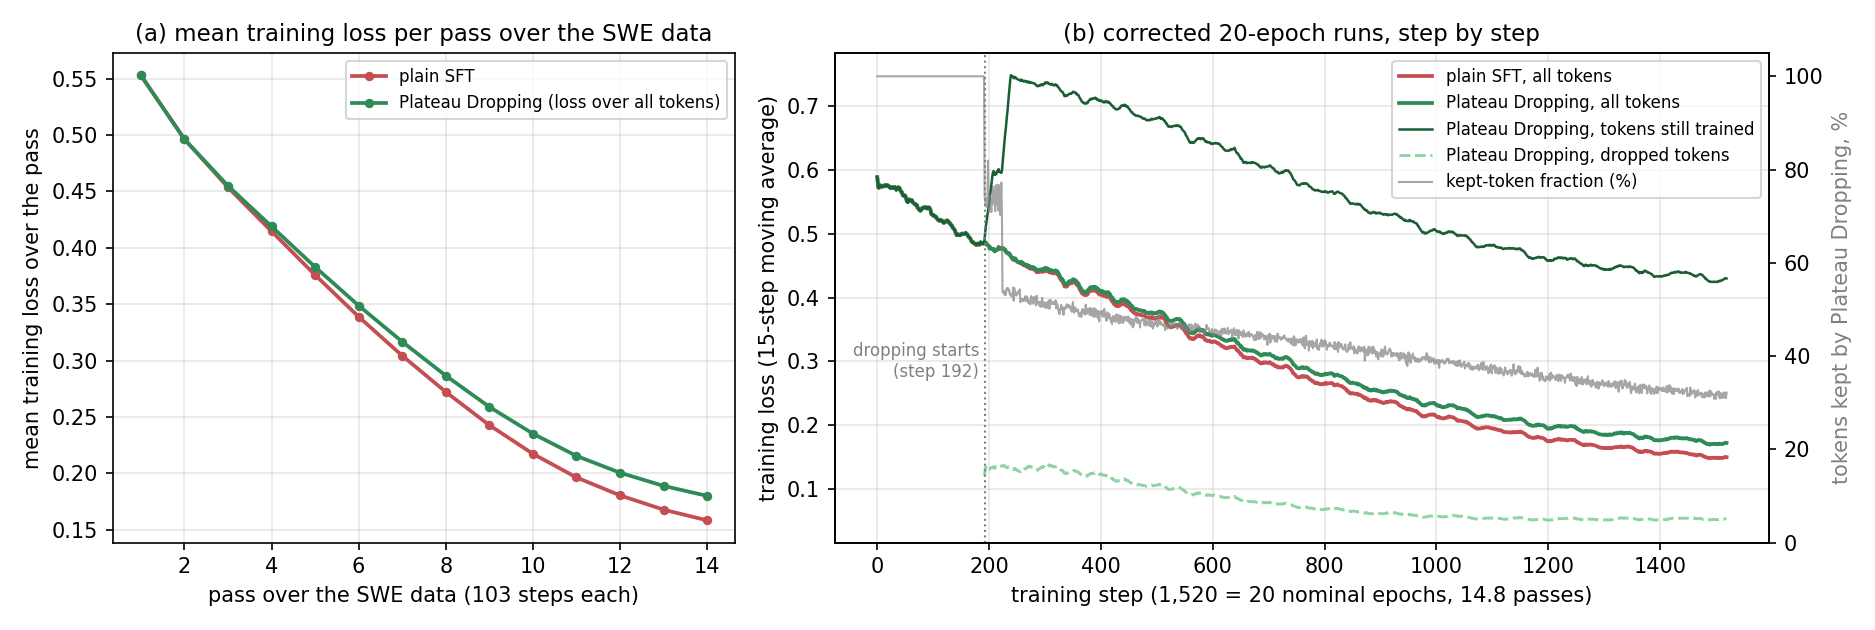
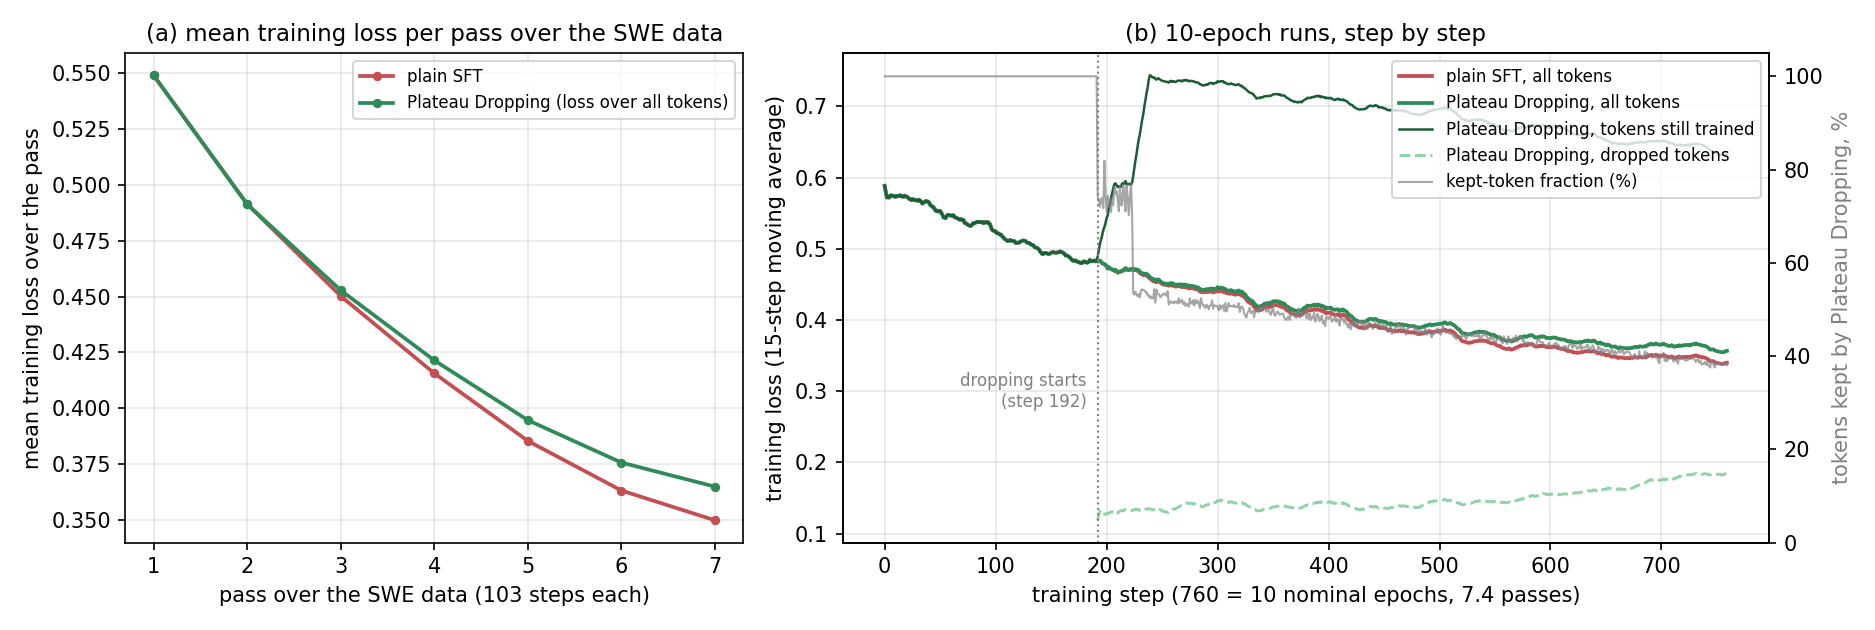
Plateau Dropping post: drop 20-epoch / 440-step results from the main text
Claude-Session: https://claude.ai/code/session_018Ea4K6tyj913yCS93WC7Xj

diff --git a/_posts/2026-10-20-plateau-dropping.md b/_posts/2026-10-20-plateau-dropping.md
@@ -59,10 +59,10 @@ We in fact observe consistent gains for both pass@1 and pass@8 in some settings,
 
 ![Figure 1](/assets/img/blog/plateau-dropping/fig1_losses_corrected.png)
 
-Figure 1. Training loss on the SWE data. (a) Mean training loss per pass over the data (103 steps each) for plain SFT (red) and Plateau Dropping over all tokens (green). (b) The 20-epoch runs step by step (15-step moving average): plain SFT over all tokens; Plateau Dropping over all tokens, over the tokens it still trains and over the tokens it has dropped; grey, right axis: the fraction of tokens Plateau Dropping keeps, 100% until step 192 and 32% at the end; the dotted line marks step 192, where dropping starts, before which the dropped-token curve is undefined.
+Figure 1. Training loss on the SWE data. (a) Mean training loss per pass over the data (103 steps each; the 7 full passes of the 10-epoch runs) for plain SFT (red) and Plateau Dropping over all tokens (green). (b) The 10-epoch runs step by step (15-step moving average; Plateau Dropping at clip 4.0, the run in Table 1): plain SFT over all tokens; Plateau Dropping over all tokens, over the tokens it still trains and over the tokens it has dropped; grey, right axis: the fraction of tokens Plateau Dropping keeps, 100% until step 192 and 38% at the end; the dotted line marks step 192, where dropping starts, before which the dropped-token curve is undefined.
 {: .caption}
 
-**Most training tokens are already learned.** Plateau Dropping's own bookkeeping (Section 2) measures this directly: the moment it starts judging tokens, at step 192 of a run on the SWE data, half of the training tokens already have a loss that has stopped moving, at an average loss of 0.21; by the end of a 20-epoch run that is two thirds of the tokens, at an average loss of 0.05, while the tokens still being learned sit at 0.43 (Figure 1b). Plain SFT averages its loss over all of them, so every update is shared with tokens that are already right.
+**Most training tokens are already learned.** Plateau Dropping's own bookkeeping (Section 2) measures this directly: the moment it starts judging tokens, at step 192 of a run on the SWE data, half of the training tokens already have a loss that has stopped moving, at an average loss of 0.21; by the end of the 10-epoch run about 60% of the tokens are dropped, nearly all of them at a loss close to zero, while the tokens still being trained sit at 0.62 (Figure 1b). Plain SFT averages its loss over all of them, so every update is shared with tokens that are already right.
 
 **Sequence-level filtering: TailSFT.** TailSFT ([Malladi et al., 2026](https://arxiv.org/abs/2608.25756)) drops training sequences the model already fits, judged by how far each sequence's loss has fallen below the base model's, so that learning concentrates on the under-modelled tail. On OLMo-3 7B it reports gains of up to 17 points at pass@16 on math and coding, and up to 4 points of pass@1 after RL; in its own tables the method is a pass@k method, with pass@16 up in 15 of 18 settings and pass@1 up in 9 and down in 9. On our agent data it does not help, in any of four variants we tried (Section 3.5).
 
@@ -108,9 +108,9 @@ where $$P_i$$ is treated as a constant, so no gradient flows through the selecti
 
 ### 2.2 What gets dropped
 
-A token can only be dropped from its third visit, so nothing is dropped until every row has been seen twice: on the SWE data that is step 192 of a run, and until then a Plateau Dropping run is plain SFT (with the same data order, the two runs' losses agree step by step to within 0.001). Dropping then starts abruptly (Figure 1b): the kept fraction falls to 51% by step 227, 38% by step 759 and 32% by step 1,519. Of the dropped tokens, 93 to 97% are dropped as learned, with a loss that falls from 0.21 when dropping starts to 0.05 at the end of the 20-epoch run, and 2 to 5% as stuck at a higher loss. The tokens still trained have a loss of 0.74 at step 228, 0.62 at 760 and 0.43 at 1,520, while the loss over all tokens is 0.48, 0.35 and 0.18; because the training loss is now an average over the harder half of the tokens, it sits well above plain SFT's even though the loss over all tokens tracks plain SFT to within 0.02. On the terminal data, whose rows are shorter and revisited more often, the kept fraction falls further, to about 15% by step 440. The dropped set changes over time as tokens re-enter, so none of this shows that a fixed set of tokens stays learned.
+A token can only be dropped from its third visit, so nothing is dropped until every row has been seen twice: on the SWE data that is step 192 of a run, and until then a Plateau Dropping run is plain SFT (with the same data order, the two runs' losses agree step by step to within 0.001). Dropping then starts abruptly (Figure 1b): the kept fraction falls to 53% by step 227 and 38% by step 759. At the end of the 10-epoch run, 92% of the dropped tokens are dropped as learned, at a loss close to zero, and 8% as stuck at a higher loss (2.1 on average). The tokens still trained have a loss of 0.69 at step 228 and 0.63 at 760, while the loss over all tokens is 0.47 and 0.36; because the training loss is now an average over the harder tokens, it sits well above plain SFT's even though the loss over all tokens tracks plain SFT to within 0.02. On the terminal data, whose rows are shorter and revisited more often, the kept fraction falls further, to about 22% by step 220. The dropped set changes over time as tokens re-enter, so none of this shows that a fixed set of tokens stays learned.
 
-Our packer fills fixed-length rows (64k tokens on the SWE data, 32k on the terminal data) with whole trajectories, which leaves about 26% of each SWE row and 12% of each terminal row as padding, and the data loader samples rows with replacement. So "epochs" throughout this post are nominal token counts: one real pass over the SWE data is 103 steps, so 228, 760 and 1,520 steps ("3, 10 and 20 epochs") are 2.2, 7.4 and 14.8 passes; one pass over the terminal data is about 29 steps, so 66, 220 and 440 steps are 2.3, 7.6 and 15.2 passes. The plateau test counts visits, not epochs.
+Our packer fills fixed-length rows (64k tokens on the SWE data, 32k on the terminal data) with whole trajectories, which leaves about 26% of each SWE row and 12% of each terminal row as padding, and the data loader samples rows with replacement. So "epochs" throughout this post are nominal token counts: one real pass over the SWE data is 103 steps, so 228 and 760 steps ("3 and 10 epochs") are 2.2 and 7.4 passes (and the 1,520-step plain SFT run quoted in Section 3.2 is 14.8); one pass over the terminal data is about 29 steps, so 66 and 220 steps are 2.3 and 7.6 passes. The plateau test counts visits, not epochs.
 
 ### 2.3 Setup
 
@@ -118,7 +118,7 @@ Our packer fills fixed-length rows (64k tokens on the SWE data, 32k on the termi
 - **Terminal data.** 6,301 successful trajectories (45M tokens, 1,610 tasks): 5,324 from the public [allenai/tmax-sft](https://huggingface.co/datasets/allenai/tmax-sft) dataset, written by a 27B teacher, and 977 of the base model's own successes on synthetic terminal tasks. Context 32k.
 - **SWE data.** 9,229 resolved trajectories (7,005 tasks) from the public [nvidia/Open-SWE-Traces](https://huggingface.co/datasets/nvidia/Open-SWE-Traces) dataset, restricted to one shell command per step to match our agent (319M tokens). Context 64k.
 - **Training.** Learning rate 1e-4, cosine schedule over the run with 3% warmup, AdamH, no weight decay, global gradient-norm clipping at 4.0 for Plateau Dropping and TailSFT (Appendix A, item 5, explains why the usual 1.0 is wrong for them) and 1.0 for plain SFT, whose gradient norm rarely reaches 1.0, bf16 compute with fp32 master weights and optimizer state, expert capacity factor 2.0 (no dropped token-to-expert assignments), router biases frozen, 16 nodes of 4 GPUs each. Plain SFT and Plateau Dropping runs of the same length share the data order.
-- **Compared models.** On the terminal data: SFT and Plateau Dropping for 3, 10 and 20 nominal epochs (66, 220 and 440 steps), and TailSFT for 3. On the SWE data: SFT and Plateau Dropping for 3, 10 and 20 nominal epochs (228, 760 and 1,520 steps), TailSFT for 3, and the 3-epoch pair again at a learning rate of 3e-4. Every Plateau Dropping and TailSFT model in the main tables is a run at gradient clip 4.0; the cells marked as in progress belong to runs being redone at that clip.
+- **Compared models.** On the terminal data: SFT and Plateau Dropping for 3 and 10 nominal epochs (66 and 220 steps), and TailSFT for 3. On the SWE data: SFT and Plateau Dropping for 3 and 10 nominal epochs (228 and 760 steps), TailSFT for 3, the 3-epoch pair again at a learning rate of 3e-4, and plain SFT for 20 nominal epochs (1,520 steps) as a longer-trained baseline. Every Plateau Dropping and TailSFT model in the main tables is a run at gradient clip 4.0; the cells marked pending are Plateau Dropping runs not yet trained at that clip.
 - **Harness.** We use the [mini-swe-agent](https://github.com/SWE-agent/mini-swe-agent) harness everywhere: all training trajectories are in its format, and all evaluations run in it. At each step the model writes its reasoning and one shell command, then sees the command's output.
 
 ### 2.4 Evaluation
@@ -147,14 +147,12 @@ Figure 2. SWE-bench Verified (random 100 tasks), pass@1 and pass@8 (%) against t
 | 3 epochs (228 steps), LR 3e-4 | + Plateau Dropping | **37.6** | **72.0** |
 | 10 epochs (760 steps) | + SFT | 42.2 | 70.0 |
 | 10 epochs (760 steps) | + Plateau Dropping | **48.8** | **78.0** |
-| 20 epochs (1,520 steps) | + SFT | 44.9 | **75.0** |
-| 20 epochs (1,520 steps) | + Plateau Dropping | **49.0** | 73.0 |
 
 The result the rest of the post rests on is the 10-epoch pair. After 10 nominal epochs on the same SWE data, Plateau Dropping reaches 48.8% pass@1 on SWE-bench Verified against 42.2% for plain SFT, and 78.0% against 70.0% at pass@8: 6.5 points at pass@1 (three standard errors, paired over tasks) and 8.0 at pass@8 (2.7 standard errors). The two runs' training-loss curves over all tokens are nearly indistinguishable (Figure 1), so the difference is not visible in training; it shows up in what the models can do, and most at pass@8.
 
 ### 3.2 Check 1: training budget
 
-Plain SFT on this data is strong and keeps improving: 20 nominal epochs take the base model from 19.2% to 44.9% pass@1 and from 46.0% to 75.0% pass@8, and the loss keeps falling throughout (Figure 1). The question is how Plateau Dropping's lead behaves along that curve. At 20 nominal epochs Plateau Dropping reaches 49.0% pass@1 against 44.9% for plain SFT (+4.1 ± 1.7, paired over tasks), while at pass@8 the two are level (73.0% against 75.0%, −2.0 ± 2.4). So the pass@1 lead holds through long training, but the pass@8 lead, largest at 10 epochs (+8.0), is gone by 20: with enough passes plain SFT catches up in coverage. The 3-epoch Plateau Dropping point at the method's clip setting is pending.
+Plain SFT on this data is strong and keeps improving: 10 nominal epochs take the base model from 19.2% to 42.2% pass@1 and from 46.0% to 70.0% pass@8, and the loss is still falling at the end (Figure 1). So one might ask whether plain SFT was simply stopped too early. We trained it twice as long: at 20 nominal epochs it reaches 44.9% pass@1 and 75.0% pass@8, still below Plateau Dropping at 10 epochs (+3.9 ± 1.7 at pass@1, +3.0 ± 2.7 at pass@8, paired over tasks). Plateau Dropping at 10 epochs beats plain SFT at either budget with at most half the training. The 3-epoch Plateau Dropping point at the method's clip setting is pending.
 
 ### 3.3 Check 2: a tuned baseline
 
@@ -164,12 +162,12 @@ The runs above use a learning rate of 1e-4, which turns out to be low for a 228-
 
 ![Figure 3](/assets/img/blog/plateau-dropping/fig3_tb2_corrected.png)
 
-Figure 3. Terminal-Bench 2.0, pass@1 and pass@8 (%) against training length (66, 220 and 440 steps) for plain SFT (red) and Plateau Dropping (green), averaged over 8 seeds; dashed: the base model. All 88 tasks (Section 2.4). Plateau Dropping runs are at gradient clip 4.0; its 66-step point at that clip is pending.
+Figure 3. Terminal-Bench 2.0, pass@1 and pass@8 (%) against training length (66 and 220 steps) for plain SFT (red) and Plateau Dropping (green), averaged over 8 seeds; dashed: the base model. All 88 tasks (Section 2.4). Plateau Dropping runs are at gradient clip 4.0; its 66-step point at that clip is pending.
 {: .caption}
 
 ![Figure 4](/assets/img/blog/plateau-dropping/fig4_tblite_corrected.png)
 
-Figure 4. TB-Lite, pass@1 and pass@8 (%) against training length (66, 220 and 440 steps) for plain SFT (red) and Plateau Dropping (green), averaged over 8 seeds; dashed: the base model. All 97 tasks (Section 2.4). Plateau Dropping runs are at gradient clip 4.0; its 66-step point at that clip is pending.
+Figure 4. TB-Lite, pass@1 and pass@8 (%) against training length (66 and 220 steps) for plain SFT (red) and Plateau Dropping (green), averaged over 8 seeds; dashed: the base model. All 97 tasks (Section 2.4). Plateau Dropping runs are at gradient clip 4.0; its 66-step point at that clip is pending.
 {: .caption}
 
 **Table 2.** TB-Lite, pass@1 and pass@8 in %, 8 seeds, all 97 tasks (Section 2.4).
@@ -181,8 +179,6 @@ Figure 4. TB-Lite, pass@1 and pass@8 (%) against training length (66, 220 and 44
 | 3 epochs (66 steps) | + Plateau Dropping | [pending] | [pending] |
 | 10 epochs (220 steps) | + SFT | 33.9 | 64.9 |
 | 10 epochs (220 steps) | + Plateau Dropping | **36.1** | **68.0** |
-| 20 epochs (440 steps) | + SFT | **33.2** | 68.0 |
-| 20 epochs (440 steps) | + Plateau Dropping | 32.0 | **69.1** |
 
 **Table 3.** Terminal-Bench 2.0, pass@1 and pass@8 in %, 8 seeds, all 88 tasks (Section 2.4).
 
@@ -193,10 +189,8 @@ Figure 4. TB-Lite, pass@1 and pass@8 (%) against training length (66, 220 and 44
 | 3 epochs (66 steps) | + Plateau Dropping | [pending] | [pending] |
 | 10 epochs (220 steps) | + SFT | 16.8 | **39.8** |
 | 10 epochs (220 steps) | + Plateau Dropping | **17.5** | 38.6 |
-| 20 epochs (440 steps) | + SFT | 14.5 | **35.2** |
-| 20 epochs (440 steps) | + Plateau Dropping | **15.5** | 34.1 |
 
-On the terminal data plain SFT peaks at 220 steps on both benchmarks (TB-Lite 33.9% pass@1, Terminal-Bench 2.0 16.8%) and slips by 440 steps (33.2% and 14.5%), with pass@8 between 64.9 and 68.0% on TB-Lite and between 35.2 and 39.8% on Terminal-Bench 2.0. At 220 steps Plateau Dropping is ahead on TB-Lite (36.1% against 33.9% pass@1, +2.2 ± 1.5 paired over tasks; 68.0% against 64.9% pass@8, +3.1 ± 3.0) and level on Terminal-Bench 2.0 (17.5% against 16.8% pass@1, +0.7 ± 1.3; 38.6% against 39.8% pass@8). At 440 steps the two are level on both benchmarks (pass@1 32.0% against 33.2% on TB-Lite and 15.5% against 14.5% on Terminal-Bench 2.0; pass@8 within 1.1 points). The gains on the terminal data are smaller than on the SWE data, and none is larger than two standard errors. The 66-step Plateau Dropping point at the method's clip setting is pending.
+On the terminal data plain SFT goes from 27.2% to 33.9% pass@1 on TB-Lite and from 10.2% to 16.8% on Terminal-Bench 2.0 between 66 and 220 steps. At 220 steps Plateau Dropping is ahead on TB-Lite (36.1% against 33.9% pass@1, +2.2 ± 1.5 paired over tasks; 68.0% against 64.9% pass@8, +3.1 ± 3.0) and level on Terminal-Bench 2.0 (17.5% against 16.8% pass@1, +0.7 ± 1.3; 38.6% against 39.8% pass@8). The gains on the terminal data are smaller than on the SWE data, and neither is larger than two standard errors. The 66-step Plateau Dropping point at the method's clip setting is pending.
 
 ### 3.5 Baselines: TailSFT
 
@@ -231,7 +225,7 @@ The same 10-epoch pair is being trained from a stronger starting checkpoint (the
 
 ## 5. Conclusion
 
-Plateau Dropping is a small change to standard SFT: the trainer remembers each token's loss from its last two visits, and once that loss stops changing, the token is removed from the training loss until it changes again. On long-horizon agentic data it gives a better checkpoint from the same data and compute. At 10 nominal epochs on the SWE data it is 6.5 points above plain SFT at pass@1 and 8.0 at pass@8 (48.8% against 42.2%, 78.0% against 70.0%), with a training loss that looks the same, and the gain is largest at pass@8. The pass@1 lead holds at 20 epochs (+4.1), while the pass@8 lead is gone by then (Section 3.2), and at three times the learning rate the 3-epoch lead holds (+5.1 at pass@1, +6.0 at pass@8; Section 3.3). On the terminal benchmarks the gains are smaller: about 2 points at 220 steps on TB-Lite and none to speak of on Terminal-Bench 2.0 or at 440 steps (Section 3.4). Sequence-level filtering of the same data (TailSFT) does not help (Section 3.5). The cells marked in progress are runs being completed at the method's clip setting and will fill in over the coming days, together with the pair from a stronger starting checkpoint (Section 3.6).
+Plateau Dropping is a small change to standard SFT: the trainer remembers each token's loss from its last two visits, and once that loss stops changing, the token is removed from the training loss until it changes again. On long-horizon agentic data it gives a better checkpoint from the same data and compute. At 10 nominal epochs on the SWE data it is 6.5 points above plain SFT at pass@1 and 8.0 at pass@8 (48.8% against 42.2%, 78.0% against 70.0%), with a training loss that looks the same, and the gain is largest at pass@8. Plain SFT trained twice as long still stays below it (Section 3.2), and at three times the learning rate the 3-epoch lead holds (+5.1 at pass@1, +6.0 at pass@8; Section 3.3). On the terminal benchmarks the gains are smaller: about 2 points at 220 steps on TB-Lite and none to speak of on Terminal-Bench 2.0 (Section 3.4). Sequence-level filtering of the same data (TailSFT) does not help (Section 3.5). The cells marked pending are Plateau Dropping runs not yet trained at the method's clip setting; the pair from a stronger starting checkpoint (Section 3.6) will be added when it finishes.
 
 ## Appendix A: training bugs we found along the way
 
@@ -248,7 +242,7 @@ Figure 5. Left: training loss over all tokens on the SWE data for our first, bug
 
 **3. The TailSFT reference pass zeroed the router bias.** The forward-only scoring pass that produces TailSFT's per-sequence reference losses applied a zero router bias instead of the frozen one from the checkpoint. The TailSFT runs in Table 4 use references from the fixed pass. The effect of the bug on the references was small (per-document error with a standard deviation of 0.006 and a rank correlation of 0.998 with the correct references), so it did not change the TailSFT result.
 
-**4. Epochs were overstated.** We first counted passes from token totals and ignored row padding, so what we called "10 epochs" on the terminal data were 7.6 real passes and "20 epochs" on the SWE data were 14.8. This post keeps the nominal names and gives the real pass counts in Section 2.2.
+**4. Epochs were overstated.** We first counted passes from token totals and ignored row padding, so what we called "10 epochs" on the terminal data were 7.6 real passes and "10 epochs" on the SWE data were 7.4. This post keeps the nominal names and gives the real pass counts in Section 2.2.
 
 **5. Gradient clipping was silently penalising Plateau Dropping.** The trainer clips the global gradient norm at 1.0, the usual setting, and the loss Plateau Dropping optimises is a mean over the kept tokens only. Once it has dropped half the tokens its gradient norm is two to three times plain SFT's, so the clip, which touches 3 to 5% of plain SFT's steps, hit 50% of the steps of the 10-epoch Plateau Dropping run on the SWE data and 82 to 100% of the steps of the terminal runs (Appendix A, item 5). Nothing in the training logs flagged it: the loss curves of the clipped and unclipped runs are indistinguishable, and only the evaluations differ, by 2 to 6 points at 10 epochs. The interaction belongs to any method that averages its loss over a kept subset of the batch, not to Plateau Dropping in particular; the TailSFT paper's runs use a clip of 1.0 with the loss averaged over the kept examples and report no gradient norms, so its results are likely affected the same way. At 10 epochs on the SWE data the two settings compare as follows (8 seeds, all 100 tasks; the loss curves of the two Plateau Dropping runs are indistinguishable, 0.347 against 0.346 over all tokens at the end):
 
@@ -258,9 +252,9 @@ Figure 5. Left: training loss over all tokens on the SWE data for our first, bug
 | Plateau Dropping, clip 1.0 | 46.6 | 72.0 |
 | Plateau Dropping, clip 4.0 | **48.8** | **78.0** |
 
-Clip 4.0 beats clip 1.0 by 2.1 ± 1.7 points at pass@1 and 6.0 ± 2.3 at pass@8, paired over tasks. Every Plateau Dropping and TailSFT run of our first pass was trained at clip 1.0; at that setting Plateau Dropping was ahead of plain SFT by 8.5 points at pass@1 and 9.0 at pass@8 after 3 epochs on SWE-bench Verified, by 4.4 and 2.0 at 10 epochs, level at 20, ahead by 4.9 and 6.2 on TB-Lite at 220 steps, and below its own 220-step result at 440 steps, where the clip had engaged on 91% of its steps. The TailSFT runs were clipped no more than plain SFT was (on 4% of logged steps on the SWE data, on the same three early steps on the terminal data) and stand as they are. Every Plateau Dropping run is being redone at clip 4.0, including the two on which the clip barely engaged at 1.0 (the 3-epoch SWE run, never; the 66-step terminal run, on the same three early steps as plain SFT), and only clip-4.0 runs appear in the main text. Normalising the kept-token loss by the full token count instead would remove the interaction by construction, since dropping would then never rescale the gradient; under Adam it should behave like the raised clip, and it has not been run.
+Clip 4.0 beats clip 1.0 by 2.1 ± 1.7 points at pass@1 and 6.0 ± 2.3 at pass@8, paired over tasks. Every Plateau Dropping and TailSFT run of our first pass was trained at clip 1.0; at that setting Plateau Dropping was ahead of plain SFT by 8.5 points at pass@1 and 9.0 at pass@8 after 3 epochs on SWE-bench Verified, by 4.4 and 2.0 at 10 epochs, and ahead by 4.9 and 6.2 on TB-Lite at 220 steps. The TailSFT runs were clipped no more than plain SFT was (on 4% of logged steps on the SWE data, on the same three early steps on the terminal data) and stand as they are. Every Plateau Dropping run is being redone at clip 4.0, including the two on which the clip barely engaged at 1.0 (the 3-epoch SWE run, never; the 66-step terminal run, on the same three early steps as plain SFT), and only clip-4.0 runs appear in the main text. Normalising the kept-token loss by the full token count instead would remove the interaction by construction, since dropping would then never rescale the gradient; under Adam it should behave like the raised clip, and it has not been run.
 
-**What the bugs did to our conclusions.** In the buggy runs the training loss flattened after one pass, and plain SFT barely moved the base model (19.5% pass@1 on SWE-bench Verified after 20 nominal epochs, against 19.3% for the base) while Plateau Dropping reached 31.1%. Both observations were the first bug: with the fixed trainer the loss falls throughout and plain SFT reaches 44.9% pass@1 and 75.0% pass@8. We do not have a complete account of why Plateau Dropping still improved under the bug. Its gradients are larger, because its loss is averaged over fewer, harder tokens, which would let more of its updates survive the rounding; but the fraction of weights that moved at all was the same in both arms, so that comparison was between two models that had barely trained, and its 10-point gap at 20 epochs does not survive the fix: with both arms training properly, the two are level (Table 1). The terminal-benchmark results of the buggy runs came from the same regime. What survives, once the gradient clip is set correctly for the method (item 5), is a lead of 6.5 points at pass@1 and 8.0 at pass@8 after 10 epochs on SWE-bench Verified; the fixed runs at the other budgets are in progress. The ablations, the runs from a stronger starting checkpoint, and the comparison of RL started from plain SFT and from Plateau Dropping were all trained under the bugs, and we leave them out of this post until they are rerun (the RL runs themselves were unaffected; their SFT starting points were not). The fixes (fp32 master weights, the capacity-factor setting, the corrected scoring pass, and a gradient-clipping setting for the ablation of Appendix A, item 5) are in our fork of the trainer.
+**What the bugs did to our conclusions.** In the buggy runs the training loss flattened after one pass, and plain SFT barely moved the base model (19.5% pass@1 on SWE-bench Verified after 20 nominal epochs, against 19.3% for the base) while Plateau Dropping reached 31.1%. Both observations were the first bug: with the fixed trainer the loss falls throughout and plain SFT reaches 44.9% pass@1 and 75.0% pass@8. We do not have a complete account of why Plateau Dropping still improved under the bug. Its gradients are larger, because its loss is averaged over fewer, harder tokens, which would let more of its updates survive the rounding; but the fraction of weights that moved at all was the same in both arms, so that comparison was between two models that had barely trained, and its 10-point gap at 20 epochs does not survive the fix. The terminal-benchmark results of the buggy runs came from the same regime. What survives, once the gradient clip is set correctly for the method (item 5), is a lead of 6.5 points at pass@1 and 8.0 at pass@8 after 10 epochs on SWE-bench Verified. The ablations, the runs from a stronger starting checkpoint, and the comparison of RL started from plain SFT and from Plateau Dropping were all trained under the bugs, and we leave them out of this post until they are rerun (the RL runs themselves were unaffected; their SFT starting points were not). The fixes (fp32 master weights, the capacity-factor setting, the corrected scoring pass, and a gradient-clipping setting for the ablation of Appendix A, item 5) are in our fork of the trainer.
 
 ## Appendix B: our data in context
 
